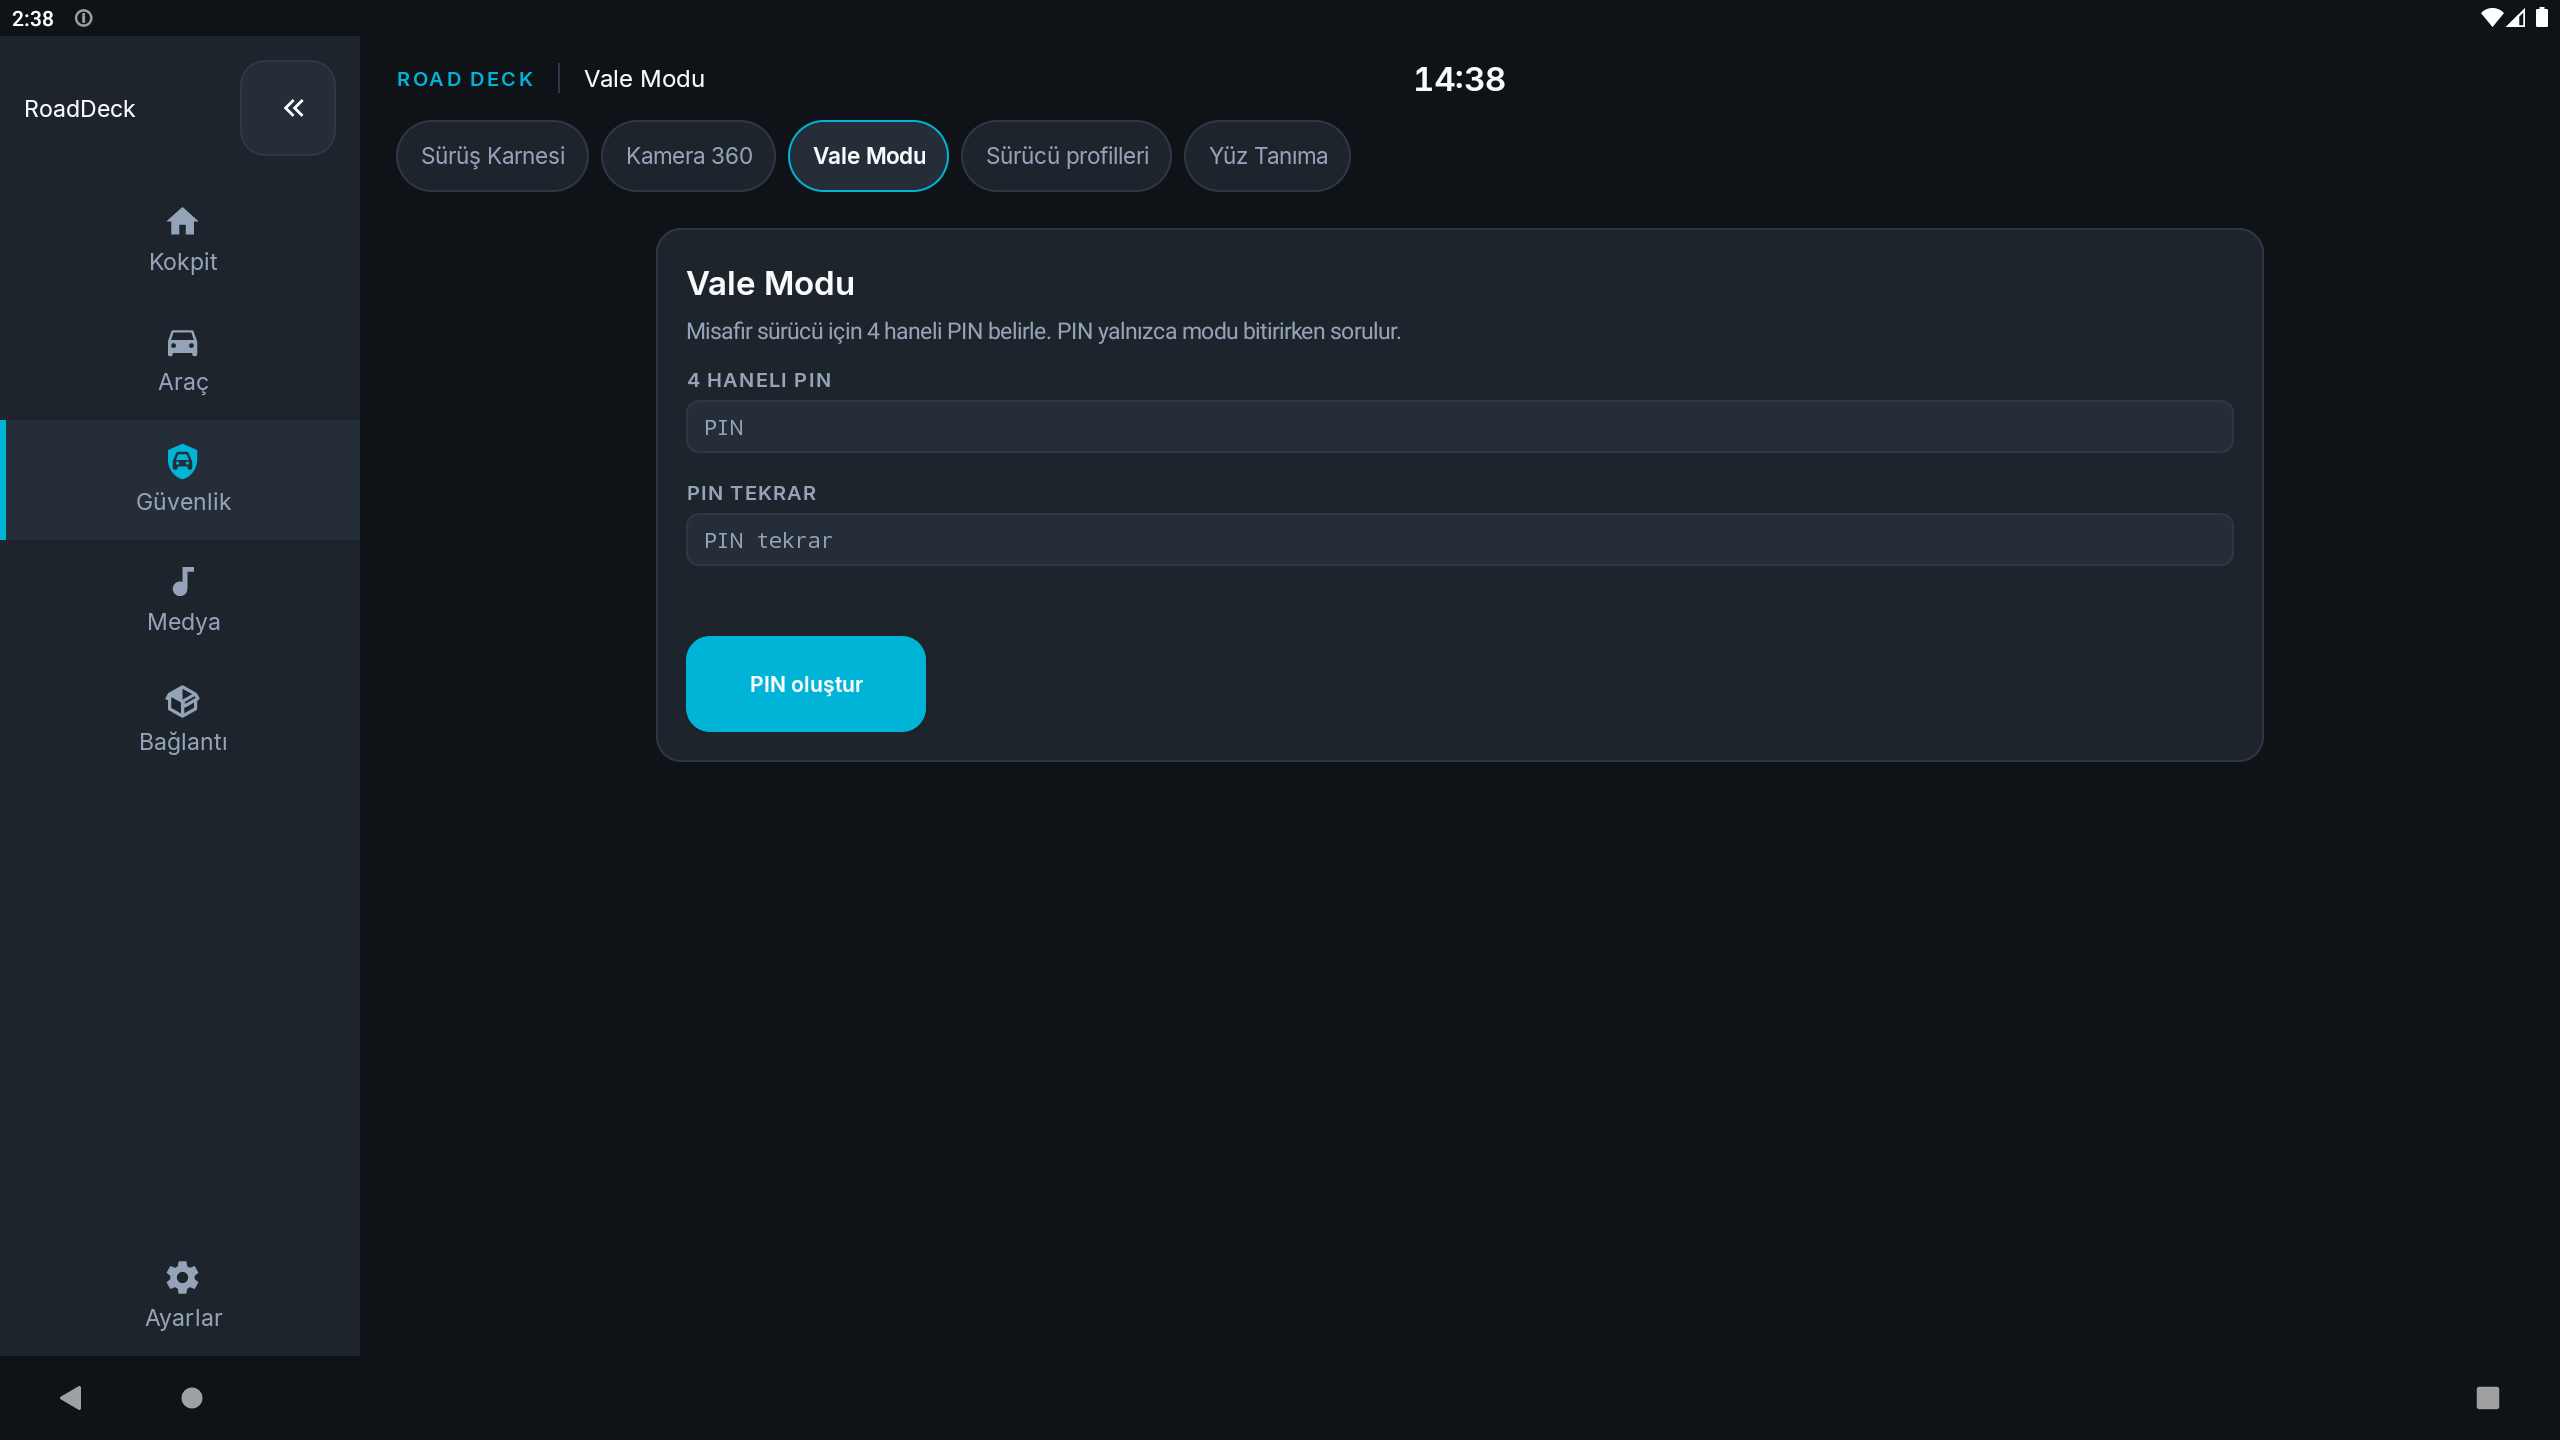
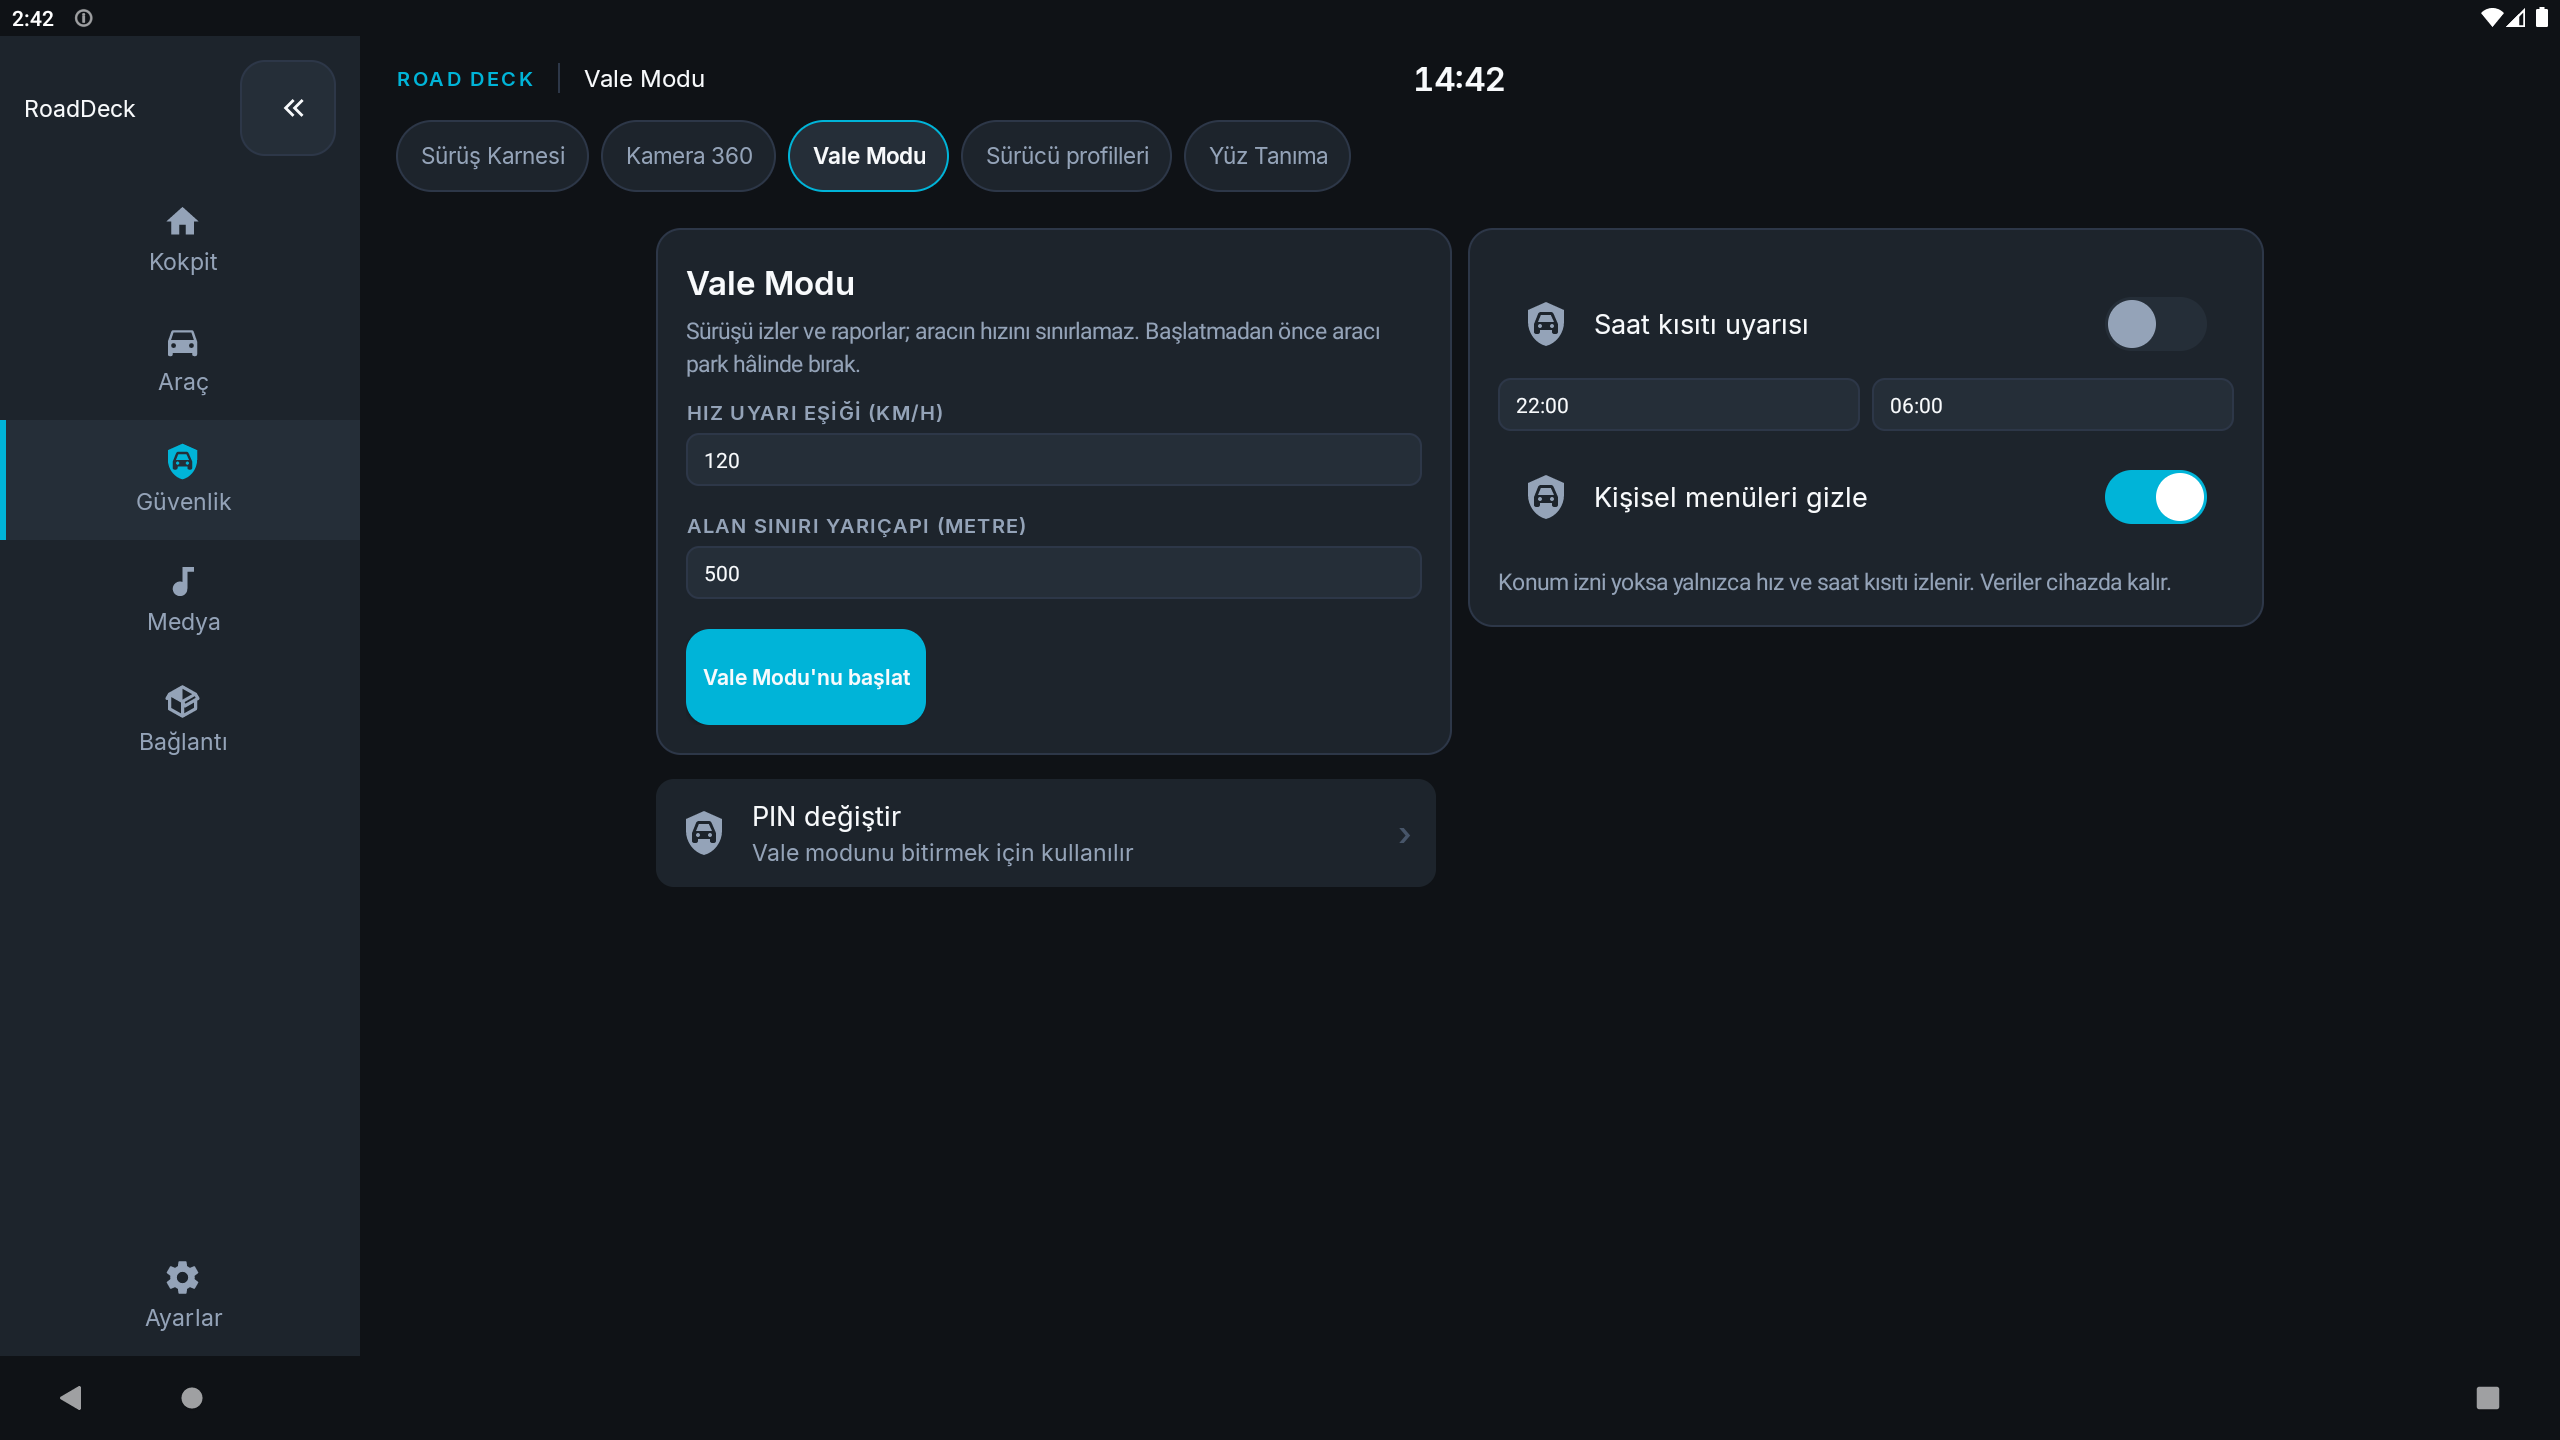
F4: Vale varsayilan ayar ekrani; PIN degistir kart oldu
- PIN yoksa da ayar ekrani gorunur; baslat once PIN kurulumunu acar
- PIN degistir butonu kaldirildi; altta yarim kolon CockpitListRow kart
- Ayar iki kart: limitler + kisitlar

diff --git a/app/src/main/java/com/mapcontrol/ui/builder/ValetTabBuilder.java b/app/src/main/java/com/mapcontrol/ui/builder/ValetTabBuilder.java
@@ -12,10 +12,13 @@ import android.location.LocationManager;
 import android.text.InputFilter;
 import android.text.InputType;
 import android.view.Gravity;
+import android.view.View;
 import android.widget.Button;
 import android.widget.EditText;
 import android.widget.LinearLayout;
 import android.widget.ScrollView;
+import com.mapcontrol.ui.cockpit.CockpitGrid;
+import com.mapcontrol.ui.cockpit.CockpitListRow;
 import com.mapcontrol.ui.cockpit.CockpitTokens;
 import com.mapcontrol.ui.cockpit.CockpitToggleRow;
 import android.widget.TextView;
@@ -69,15 +72,11 @@ public class ValetTabBuilder {
                 LinearLayout.LayoutParams.MATCH_PARENT,
                 LinearLayout.LayoutParams.WRAP_CONTENT));
 
-        if (!ValetModeManager.hasPin(context)) {
-            buildPinSetup(outer);
+        ValetSession session = ValetModeManager.getSession(context);
+        if (session.active) {
+            buildActive(outer, session);
         } else {
-            ValetSession session = ValetModeManager.getSession(context);
-            if (session.active) {
-                buildActive(outer, session);
-            } else {
-                buildSettings(outer, session);
-            }
+            buildSettings(outer, session);
         }
     }
 
@@ -175,7 +174,12 @@ public class ValetTabBuilder {
         Button startBtn = button("Vale Modu'nu başlat", true);
         startBtn.setMinWidth(CockpitTokens.dim(context, R.dimen.ck_action_min_w));
         startBtn.setMaxWidth(CockpitTokens.dim(context, R.dimen.ck_action_max_w));
-        startBtn.setOnClickListener(v -> new AlertDialog.Builder(context)
+        startBtn.setOnClickListener(v -> {
+            if (!ValetModeManager.hasPin(context)) {
+                showPinSetupDialog();
+                return;
+            }
+            new AlertDialog.Builder(context)
                 .setTitle("Vale Modu başlatılsın mı?")
                 .setMessage("Araç park hâlinde olmalı. Modu bitirmek için PIN gerekir; "
                         + "hız ve alan sınırı uyarıları cihazda tutulur.")
@@ -193,22 +197,14 @@ public class ValetTabBuilder {
                     rebuild();
                 })
                 .setNegativeButton("Vazgeç", null)
-                .show());
+                .show();
+        });
         LinearLayout.LayoutParams startLp = new LinearLayout.LayoutParams(
                 LinearLayout.LayoutParams.WRAP_CONTENT,
                 LinearLayout.LayoutParams.WRAP_CONTENT);
         startLp.topMargin = CockpitTokens.dim(context, R.dimen.ck_space_md);
         left.addView(startBtn, startLp);
 
-        Button changePin = button("PIN değiştir", false);
-        changePin.setMinWidth(CockpitTokens.dim(context, R.dimen.ck_action_min_w));
-        changePin.setMaxWidth(CockpitTokens.dim(context, R.dimen.ck_action_max_w));
-        changePin.setOnClickListener(v -> showPinSetupDialog());
-        LinearLayout.LayoutParams pinLp = new LinearLayout.LayoutParams(
-                LinearLayout.LayoutParams.WRAP_CONTENT,
-                LinearLayout.LayoutParams.WRAP_CONTENT);
-        pinLp.topMargin = CockpitTokens.dim(context, R.dimen.ck_space_sm);
-        left.addView(changePin, pinLp);
 
         LinearLayout.LayoutParams leftLp = new LinearLayout.LayoutParams(
                 0, LinearLayout.LayoutParams.WRAP_CONTENT, 1f);
@@ -221,6 +217,22 @@ public class ValetTabBuilder {
         parent.addView(columns, new LinearLayout.LayoutParams(
                 LinearLayout.LayoutParams.MATCH_PARENT,
                 LinearLayout.LayoutParams.WRAP_CONTENT));
+
+        CockpitGrid pinGrid = new CockpitGrid(context);
+        CockpitListRow pinRow = new CockpitListRow(context, R.drawable.ic_mdi_shield_car,
+                "PIN değiştir", "Vale modunu bitirmek için kullanılır");
+        TextView pinChevron = new TextView(context);
+        CockpitTokens.headlineSm(pinChevron);
+        pinChevron.setText("›");
+        pinChevron.setTextColor(CockpitTokens.color(context, R.color.ck_text_muted));
+        pinRow.trailing(pinChevron);
+        pinRow.clickRow(v -> showPinSetupDialog());
+        pinGrid.add(pinRow, 4);
+        pinGrid.add(new View(context), 4);
+        LinearLayout.LayoutParams pinGridLp = new LinearLayout.LayoutParams(
+                LinearLayout.LayoutParams.MATCH_PARENT, LinearLayout.LayoutParams.WRAP_CONTENT);
+        pinGridLp.topMargin = CockpitTokens.dim(context, R.dimen.ck_space_md);
+        parent.addView(pinGrid, pinGridLp);
     }
 
     private void buildActive(LinearLayout parent, ValetSession session) {
